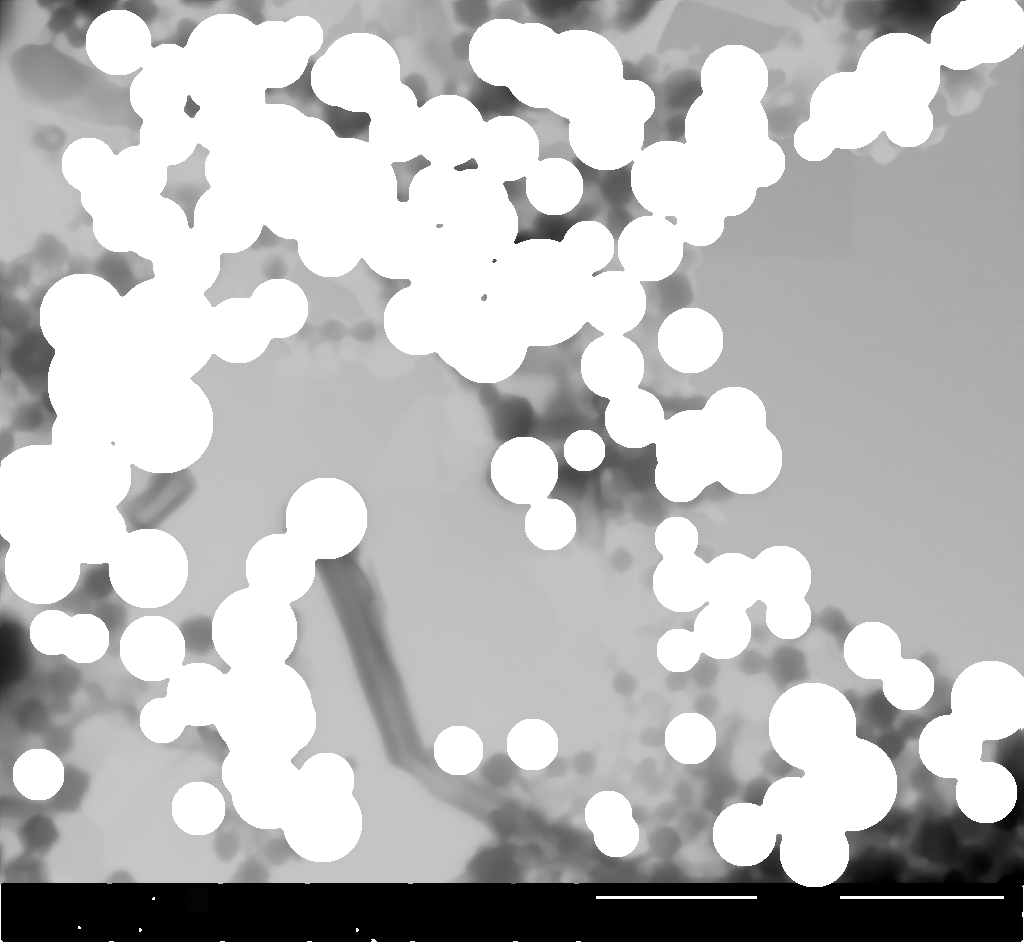
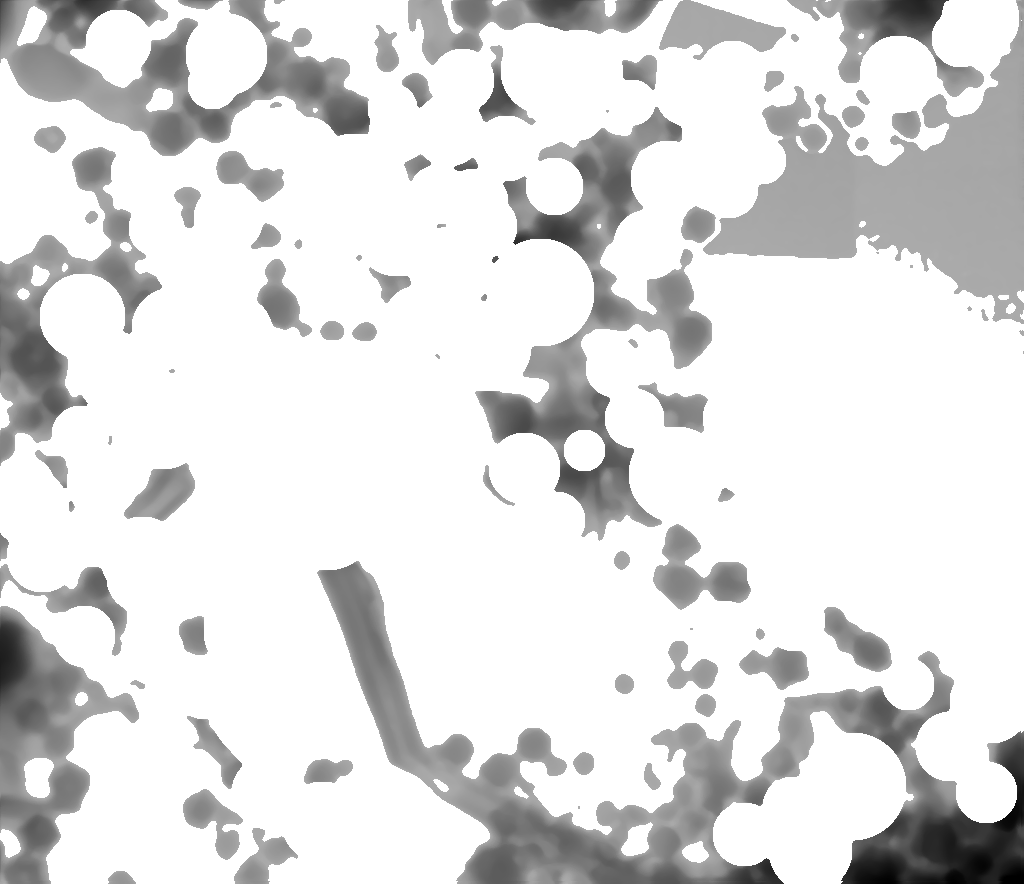
Problem Fixed

diff --git a/Source/corner/shape_detection.py b/Source/corner/shape_detection.py
@@ -20,7 +20,7 @@ ratio = image.shape[0] / float(resized.shape[0])
 # and threshold it
 gray = cv2.cvtColor(resized, cv2.COLOR_BGR2GRAY)
 blurred = cv2.GaussianBlur(gray, (5, 5), 0)
-thresh = cv2.threshold(blurred,180,255,cv2.THRESH_BINARY)[1]
+thresh = cv2.threshold(blurred,150,255,cv2.THRESH_BINARY)[1]
 cv2.imshow("Image", thresh)
 cv2.waitKey(0)
 
@@ -31,9 +31,11 @@ cnts = cv2.findContours(thresh.copy(), cv2.RETR_LIST,
 
 cnts = cnts[0] if imutils.is_cv2() else cnts[1]
 sd = ShapeDetector()
-print cnts
 # loop over the contours
-for c in cnts:
+ci = 0
+b = 0
+radios = []
+for c in cnts[:len(cnts)-1]:
     # compute the center of the contour, then detect the name of the
     # shape using only the contour
     M = cv2.moments(c)
@@ -41,9 +43,13 @@ for c in cnts:
         M["m00"] = 0.000001
     cX = int((M["m10"] / M["m00"]) * ratio)
     cY = int((M["m01"] / M["m00"]) * ratio)
-    shape = sd.detect(c)
-    if shape in ["pentagon", "square", "rectangle"]:
-
+    shape, radio = sd.detect(c)
+    if shape != "pentagon":
+        if shape == 'Circulo':
+            ci += 1
+            radios.append(radio)
+        elif shape == 'Baston':
+            b += 1
         # multiply the contour (x, y)-coordinates by the resize ratio,
         # then draw the contours and the name of the shape on the image
         c = c.astype("float")
@@ -56,3 +62,8 @@ for c in cnts:
         # show the output image
         cv2.imshow("Image", image)
         cv2.waitKey(0)
+print '--------------------------------------------------------------'
+print 'CIRCULOSSEGUNDA ETAPA: ', ci
+print 'RADIO PROMEDIO SEGUNDA ETAPA: ', sum(radios)/len(radios)
+print '--------------------------------------------------------------'
+print 'BASTONES', b

diff --git a/Source/corner/shape_detector.py b/Source/corner/shape_detector.py
@@ -10,10 +10,13 @@ class ShapeDetector:
         # initialize the shape name and approximate the contour
         shape = "unidentified"
         peri = cv2.arcLength(c, True)
+        if peri < 20:
+            shape = "pentagon"
+            return [shape, peri/2*3.1415]
         approx = cv2.approxPolyDP(c, 0.04 * peri, True)
         # if the shape is a triangle, it will have 3 vertices
         if len(approx) == 3:
-            shape = "triangle"
+            shape = "Circulo"
 
         # if the shape has 4 vertices, it is either a square or
         # a rectangle
@@ -25,15 +28,18 @@ class ShapeDetector:
 
             # a square will have an aspect ratio that is approximately
             # equal to one, otherwise, the shape is a rectangle
-            shape = "square" if ar >= 0.95 and ar <= 1.05 else "rectangle"
+            shape = "Circulo" if ar >= 0.95 and ar <= 1.05 else "Baston"
 
         # if the shape is a pentagon, it will have 5 vertices
         elif len(approx) == 5:
             shape = "pentagon"
 
+        elif len(approx) == 7:
+            shape = "Baston"
+
         # otherwise, we assume the shape is a circle
         else:
-            shape = "circle"
+            shape = "Circulo"
 
         # return the name of the shape
-        return shape
+        return [shape, peri/2*3.1415]

diff --git a/Source/recognition2.py b/Source/recognition2.py
@@ -113,14 +113,18 @@ circles = cv2.HoughCircles(img,cv2.HOUGH_GRADIENT,1,20,
                             param1=30,param2=28,minRadius=10,maxRadius=50)
 
 circles = np.uint16(np.around(circles))
-print len(circles[0,:])
+radios = []
 for i in circles[0,:]:
     # draw the outer circle
-    print i[2]
     cv2.circle(cimg,(i[0],i[1]),i[2]+10,(255,255,255),-2)
+    radios.append(i[2])
     # draw the center of the circle
     #cv2.circle(cimg,(i[0],i[1]),2,(0,0,255),2)
 
+print '--------------------------------------------------------------'
+print 'CIRCULOS INICIALES',len(circles[0,:])
+print 'RADIO PROMEDIO INICIAL: ', sum(radios)/len(radios)
+print '--------------------------------------------------------------'
 cv2.imshow('dets',img)
 cv2.imshow('detected circles',cimg)
 

diff --git a/Source/corner/salt_and_peper.py b/Source/corner/salt_and_peper.py
@@ -24,7 +24,7 @@ def media(image, f, idx, idy, out):
 
 
 def fullMedia(image, f):
-        
+
 	out = []
 	for x in img:
         	out.append(x)
@@ -37,7 +37,7 @@ def fullMedia(image, f):
                 for y in range(y_steps):
                         media(image,f, x, y, out )
 	return out
-                        
+
 new_image = fullMedia(img, f)
 seccond_image = fullMedia(new_image, f)
 cv2.imshow('image',img)
